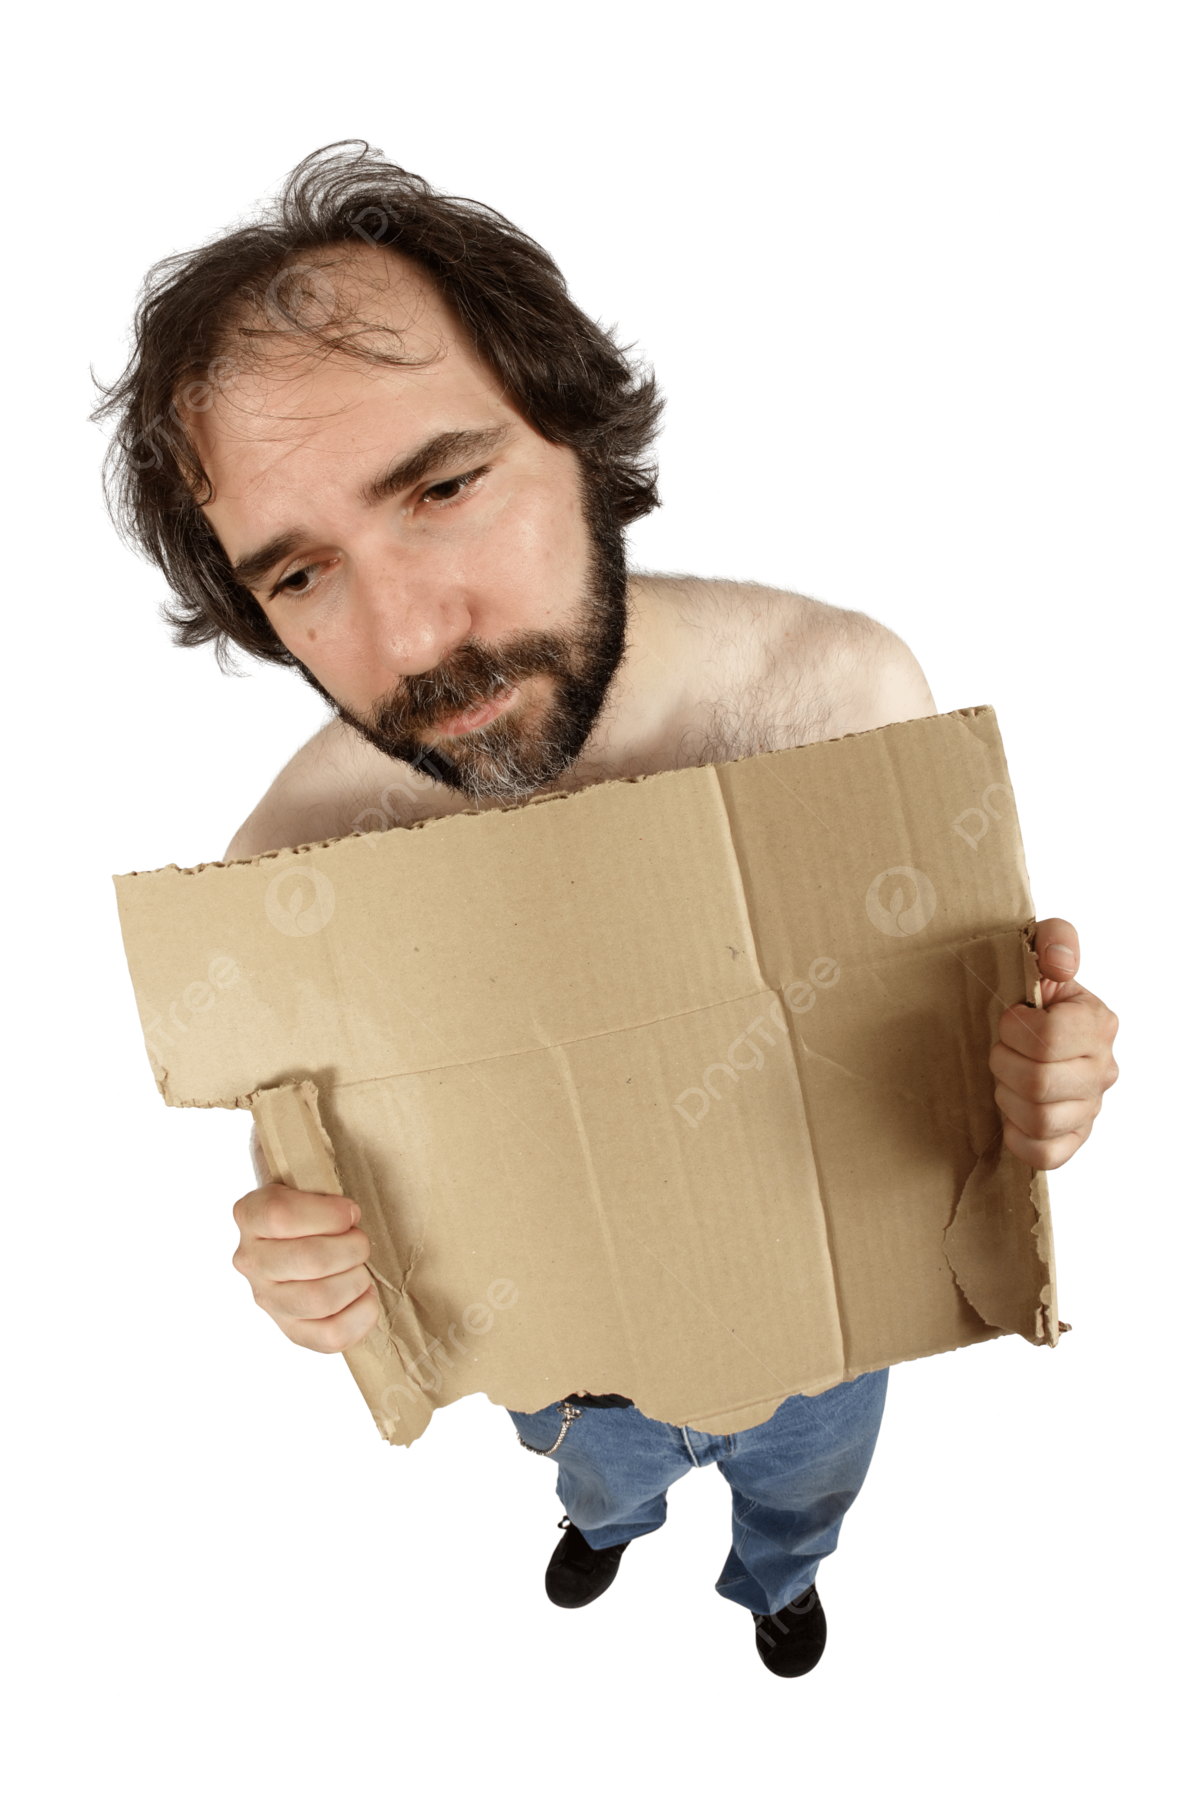
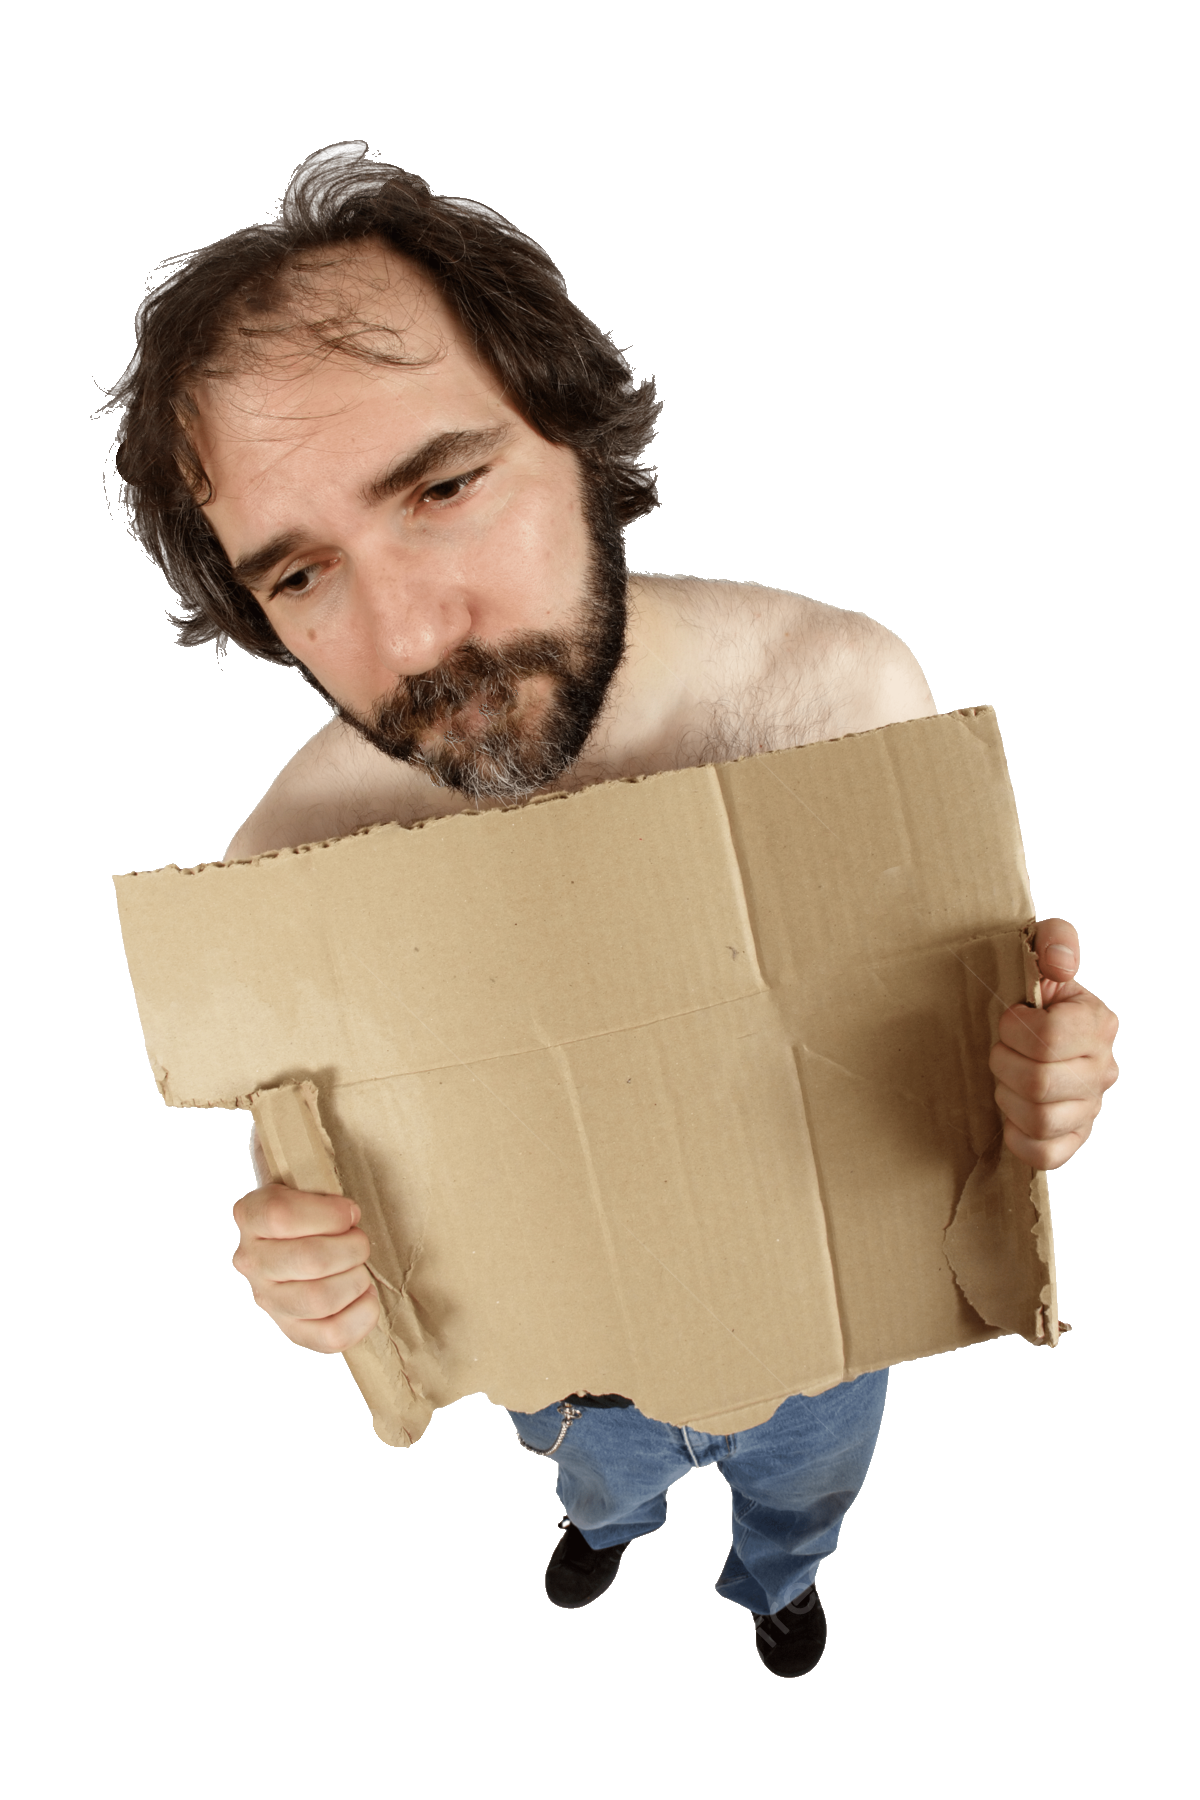
remove watermark from the rat supplier, fix typo in index.html

diff --git a/index.html b/index.html
@@ -8,7 +8,7 @@
 <body>
     <header>
         <div class="headerArea">
-            <a class="button" href="DataPages/timeline.html">timeline</a>
+            <a class="button" href="Data/Pages/timeline.html">timeline</a>
             <a class="button" href="Data/Pages/state.html">state of the internet</a>
             <a class="button" href="Data/Pages/news.html">recent news</a>
             <a class="button" href="Data/Pages/donate.html">donate</a>
